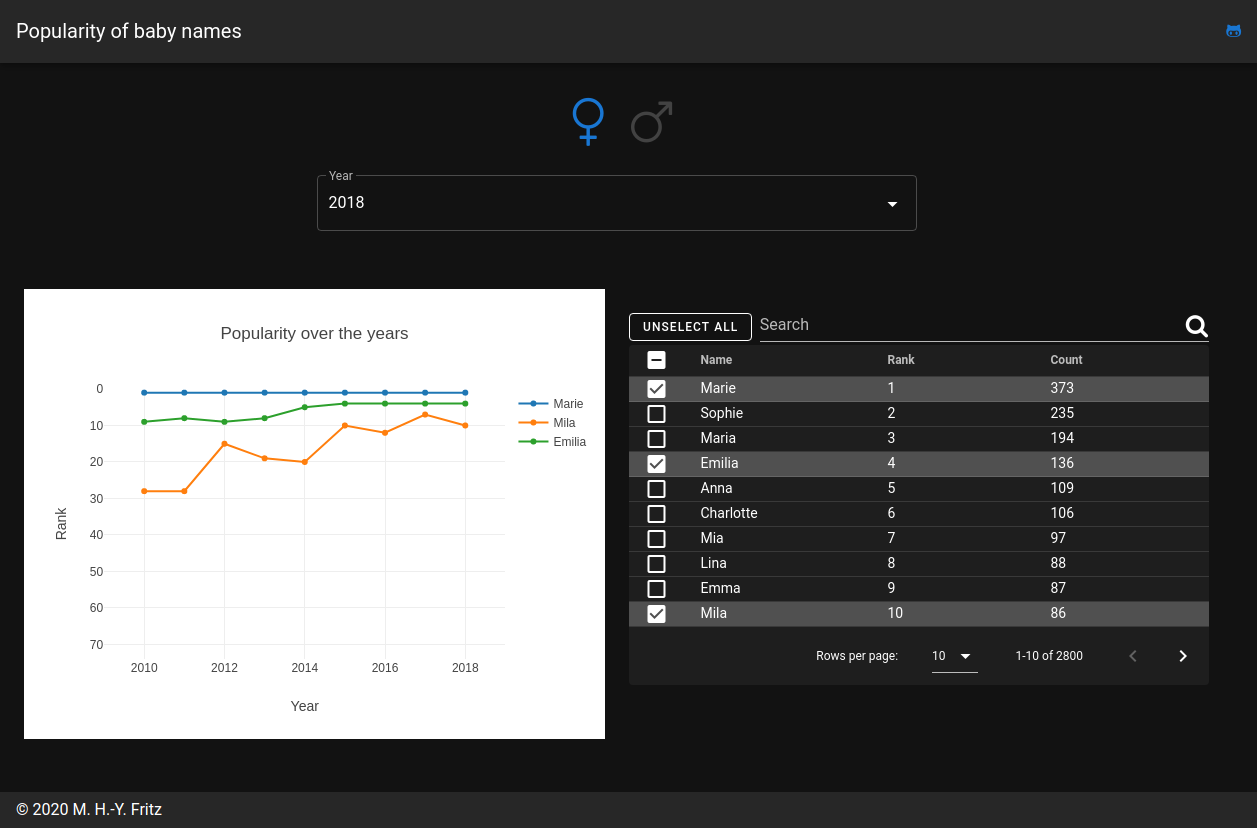
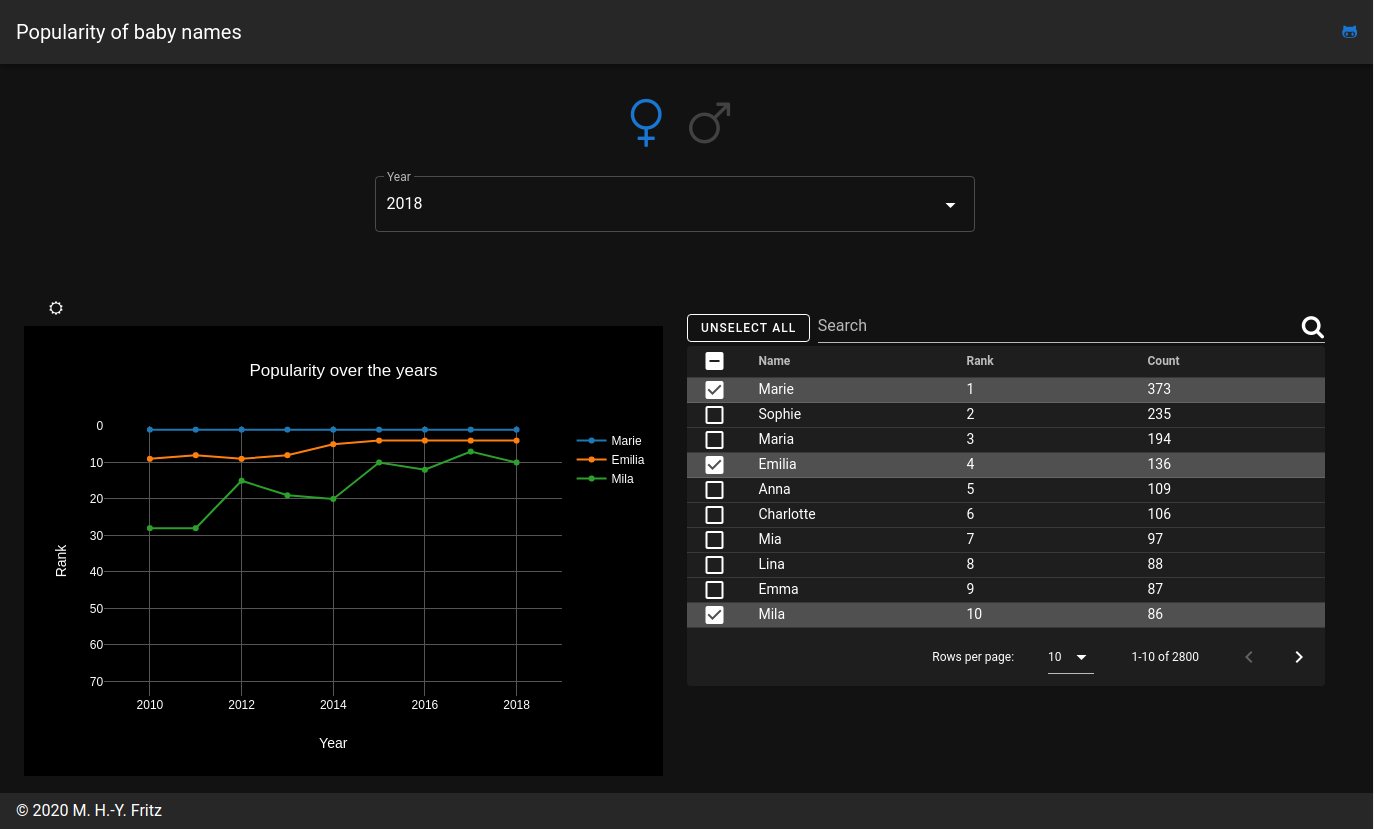
add chart themes (dark by default)

diff --git a/pages/index.vue b/pages/index.vue
@@ -41,6 +41,12 @@
     </v-row>
     <v-row>
       <v-col cols="12" lg="6">
+        <v-btn @click="toggleChartTheme" text>
+          <i
+            class="fa"
+            :class="chartTheme === 'dark' ? 'fa-sun-o' : 'fa-moon-o'"
+          />
+        </v-btn>
         <div ref="chart"></div>
       </v-col>
       <v-col cols="12" lg="6">
@@ -103,7 +109,8 @@ export default {
         { text: 'Name', value: 'name' },
         { text: 'Rank', value: 'rank' },
         { text: 'Count', value: 'count' }
-      ]
+      ],
+      chartTheme: 'dark'
     }
   },
   computed: {
@@ -119,6 +126,10 @@ export default {
   methods: {
     init() {
       this.selected.rows = [this.subsetByYear[0], this.subsetByYear[1]]
+    },
+    toggleChartTheme() {
+      this.chartTheme = this.chartTheme === 'dark' ? 'light' : 'dark'
+      this.renderChart()
     },
     renderChart() {
       const data = this.selected.rows.map(row => ({
@@ -148,6 +159,12 @@ export default {
           range: [this.rankExtent[1], 0],
           zeroline: false
         }
+      }
+
+      if (this.chartTheme === 'dark') {
+        layout.xaxis.gridcolor = layout.yaxis.gridcolor = '#555'
+        layout.plot_bgcolor = layout.paper_bgcolor = '#000'
+        layout.font = { color: '#fff' }
       }
 
       const config = { displaylogo: false }
